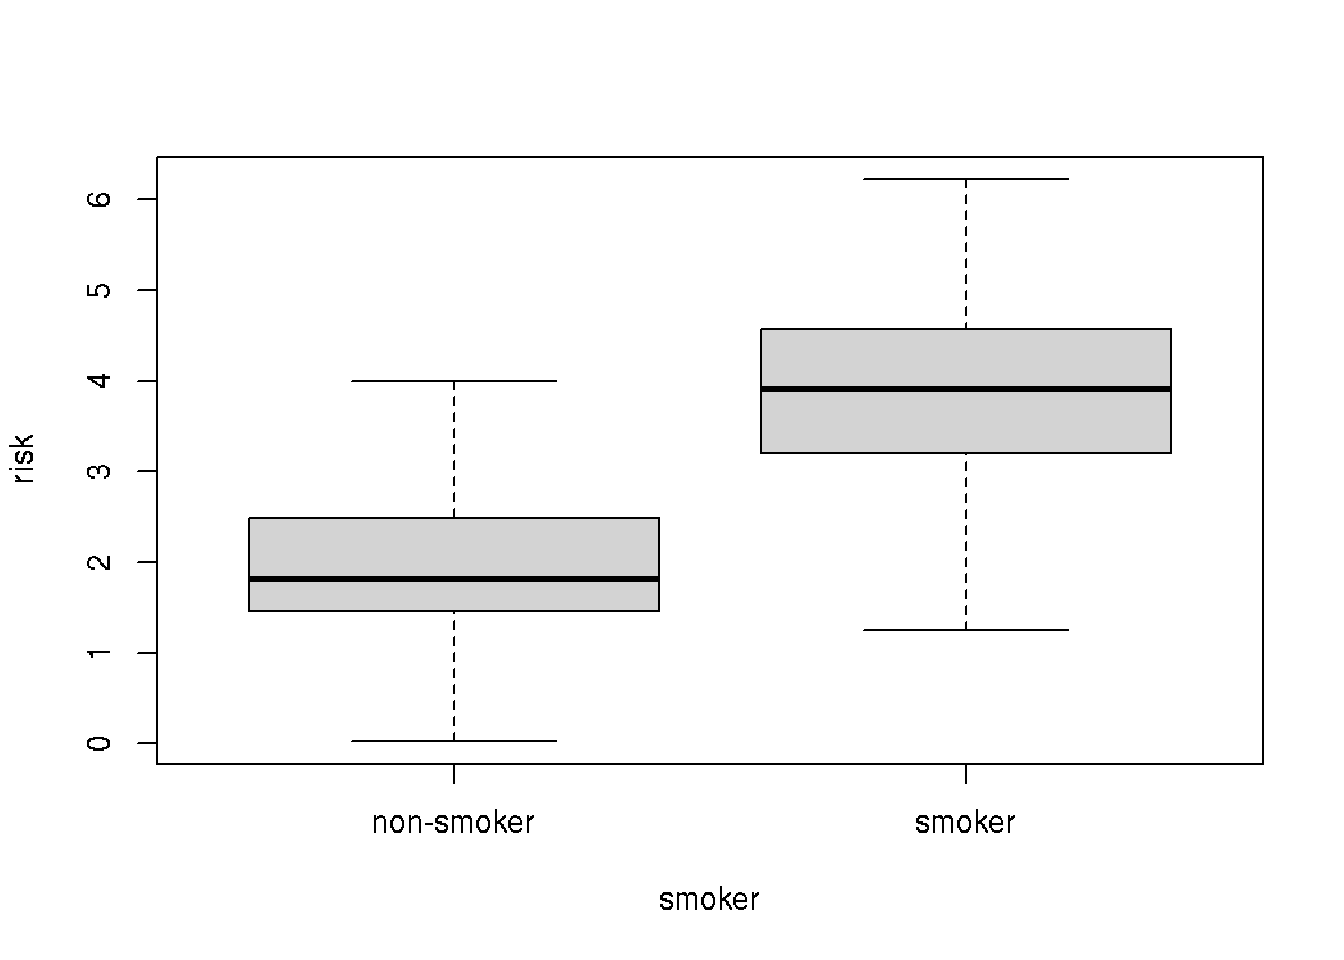
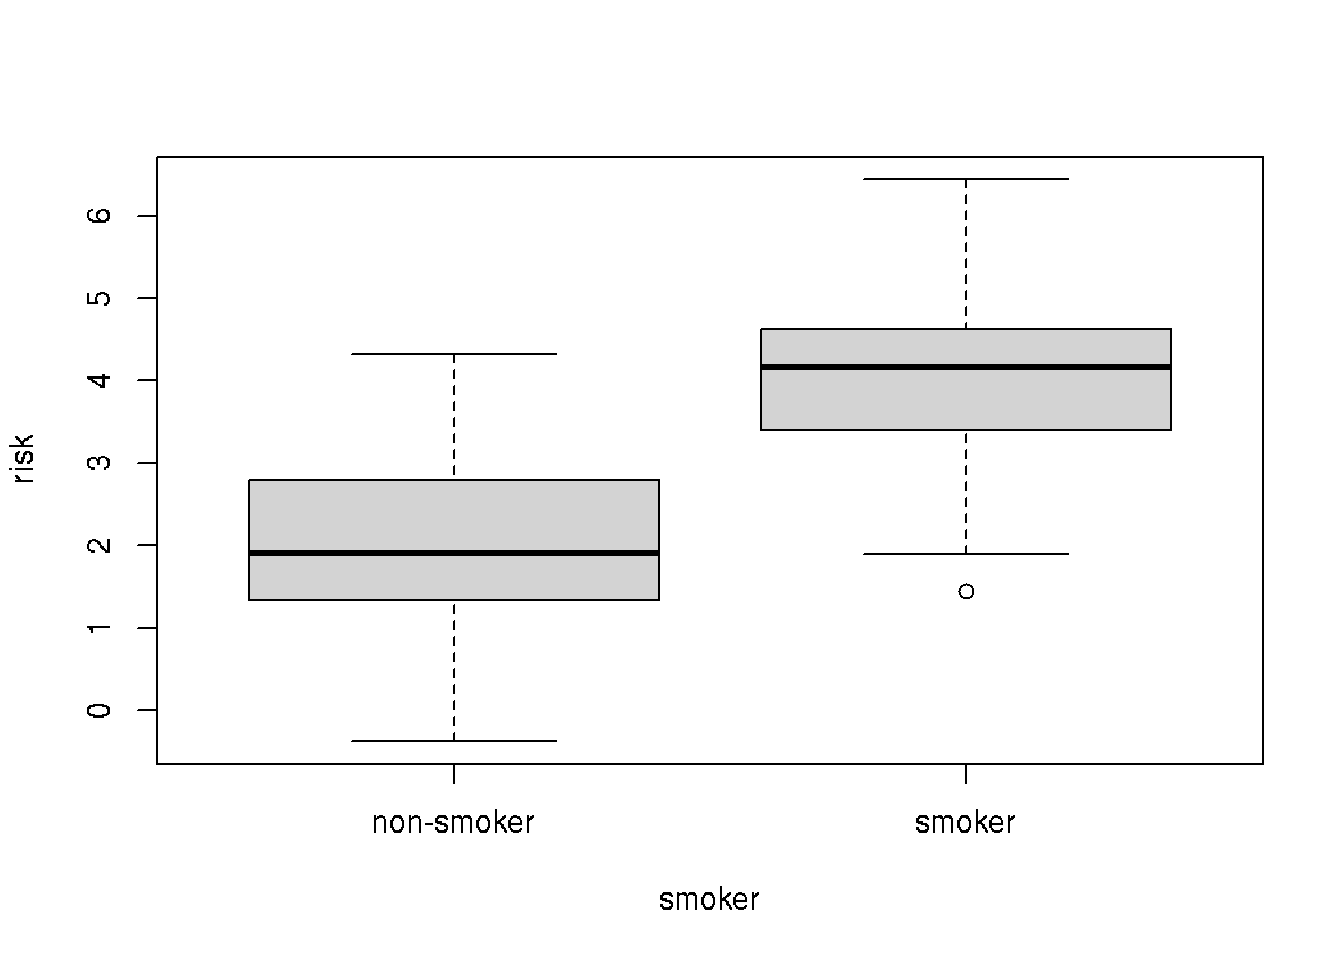
Built site for gh-pages

diff --git a/dataframes_intro.html b/dataframes_intro.html
@@ -410,7 +410,13 @@ pre > code.sourceCode > span > a:first-child::before { text-decoration: underlin
   </ul></li>
   <li><a href="#aggregating-data" id="toc-aggregating-data" class="nav-link" data-scroll-target="#aggregating-data"><span class="header-section-number">11.7</span> Aggregating data</a></li>
   <li><a href="#creating-a-data.frame-from-scratch" id="toc-creating-a-data.frame-from-scratch" class="nav-link" data-scroll-target="#creating-a-data.frame-from-scratch"><span class="header-section-number">11.8</span> Creating a data.frame from scratch</a></li>
-  <li><a href="#saving-a-data.frame" id="toc-saving-a-data.frame" class="nav-link" data-scroll-target="#saving-a-data.frame"><span class="header-section-number">11.9</span> Saving a data.frame</a></li>
+  <li><a href="#joining-merging-data" id="toc-joining-merging-data" class="nav-link" data-scroll-target="#joining-merging-data"><span class="header-section-number">11.9</span> Joining / Merging Data</a>
+  <ul class="collapse">
+  <li><a href="#join-columns" id="toc-join-columns" class="nav-link" data-scroll-target="#join-columns"><span class="header-section-number">11.9.1</span> Join Columns</a></li>
+  <li><a href="#join-rows" id="toc-join-rows" class="nav-link" data-scroll-target="#join-rows"><span class="header-section-number">11.9.2</span> Join Rows</a></li>
+  <li><a href="#joining-data-by-key" id="toc-joining-data-by-key" class="nav-link" data-scroll-target="#joining-data-by-key"><span class="header-section-number">11.9.3</span> Joining Data by Key</a></li>
+  </ul></li>
+  <li><a href="#saving-a-data.frame" id="toc-saving-a-data.frame" class="nav-link" data-scroll-target="#saving-a-data.frame"><span class="header-section-number">11.10</span> Saving a data.frame</a></li>
   </ul>
 <div class="toc-actions"><ul><li><a href="https://github.com/lshep/RPC519RBioc/edit/main/dataframes_intro.qmd" class="toc-action"><i class="bi bi-github"></i>Edit this page</a></li><li><a href="https://github.com/lshep/RPC519RBioc/issues/new" class="toc-action"><i class="bi empty"></i>Report an issue</a></li><li><a href="https://github.com/lshep/RPC519RBioc/blob/main/dataframes_intro.qmd" class="toc-action"><i class="bi empty"></i>View source</a></li></ul></div></nav>
     </div>
@@ -443,7 +449,7 @@ pre > code.sourceCode > span > a:first-child::before { text-decoration: underlin
     <div>
     <div class="quarto-title-meta-heading">Modified</div>
     <div class="quarto-title-meta-contents">
-      <p class="date-modified">May 6, 2026</p>
+      <p class="date-modified">May 13, 2026</p>
     </div>
   </div>
     
@@ -601,27 +607,27 @@ pre > code.sourceCode > span > a:first-child::before { text-decoration: underlin
 </div>
 <div class="sourceCode cell-code" id="cb17"><pre class="sourceCode r code-with-copy"><code class="sourceCode r"><span id="cb17-1"><a href="#cb17-1" aria-hidden="true" tabindex="-1"></a><span class="fu">summary</span>(ydat)</span></code><button title="Copy to Clipboard" class="code-copy-button"><i class="bi"></i></button></pre></div>
 <div class="cell-output cell-output-stdout">
-<pre><code>    symbol          systematic_name      nutrient        
- Length:198430      Length:198430      Length:198430     
- Class :character   Class :character   Class :character  
- Mode  :character   Mode  :character   Mode  :character  
-                                                         
-                                                         
-                                                         
-      rate          expression             bp           
- Min.   :0.0500   Min.   :-6.500000   Length:198430     
- 1st Qu.:0.1000   1st Qu.:-0.290000   Class :character  
- Median :0.2000   Median : 0.000000   Mode  :character  
- Mean   :0.1752   Mean   : 0.003367                     
- 3rd Qu.:0.2500   3rd Qu.: 0.290000                     
- Max.   :0.3000   Max.   : 6.640000                     
-      mf           
- Length:198430     
- Class :character  
- Mode  :character  
-                   
-                   
-                   </code></pre>
+<pre><code>       symbol        systematic_name        nutrient     
+ Length   :198430   Length   :198430   Length   :198430  
+ N.unique :  4210   N.unique :  5536   N.unique :     6  
+ N.blank  :     0   N.blank  :     0   N.blank  :     0  
+ Min.nchar:     2   Min.nchar:     5   Min.nchar:     6  
+ Max.nchar:     9   Max.nchar:     9   Max.nchar:     9  
+ NAs      : 47250                                        
+      rate          expression                bp        
+ Min.   :0.0500   Min.   :-6.500000   Length   :198430  
+ 1st Qu.:0.1000   1st Qu.:-0.290000   N.unique :   880  
+ Median :0.2000   Median : 0.000000   N.blank  :     0  
+ Mean   :0.1752   Mean   : 0.003367   Min.nchar:     7  
+ 3rd Qu.:0.2500   3rd Qu.: 0.290000   Max.nchar:    82  
+ Max.   :0.3000   Max.   : 6.640000   NAs      :  7663  
+         mf        
+ Length   :198430  
+ N.unique :  1085  
+ N.blank  :     0  
+ Min.nchar:    11  
+ Max.nchar:   125  
+ NAs      :  7663  </code></pre>
 </div>
 </div>
 <p>In RStudio, there is an additional function, <code>View()</code> (note the capital “V”) that opens the first 1000 rows (default) in the RStudio window, akin to a spreadsheet view.</p>
@@ -759,8 +765,8 @@ NA.47249 &lt;NA&gt; &lt;NA&gt;</code></pre>
 <div class="cell">
 <div class="sourceCode cell-code" id="cb44"><pre class="sourceCode r code-with-copy"><code class="sourceCode r"><span id="cb44-1"><a href="#cb44-1" aria-hidden="true" tabindex="-1"></a><span class="fu">summary</span>(ydat<span class="sc">$</span>symbol)</span></code><button title="Copy to Clipboard" class="code-copy-button"><i class="bi"></i></button></pre></div>
 <div class="cell-output cell-output-stdout">
-<pre><code>   Length     Class      Mode 
-   198430 character character </code></pre>
+<pre><code>   Length  N.unique   N.blank Min.nchar Max.nchar       NAs 
+   198430      4210         0         2         9     47250 </code></pre>
 </div>
 </div>
 <p>Using the <code>is.na()</code> function, we can make filter further to get down to values of interest.</p>
@@ -916,12 +922,12 @@ NA.47249 &lt;NA&gt; &lt;NA&gt;</code></pre>
 <span id="cb57-2"><a href="#cb57-2" aria-hidden="true" tabindex="-1"></a><span class="fu">head</span>(smoker_risk)</span></code><button title="Copy to Clipboard" class="code-copy-button"><i class="bi"></i></button></pre></div>
 <div class="cell-output cell-output-stdout">
 <pre><code>  smoker     risk
-1 smoker 3.494214
-2 smoker 3.841851
-3 smoker 3.607017
-4 smoker 4.449390
-5 smoker 3.896246
-6 smoker 5.712052</code></pre>
+1 smoker 4.206258
+2 smoker 4.418306
+3 smoker 1.898005
+4 smoker 4.126605
+5 smoker 5.891097
+6 smoker 4.543194</code></pre>
 </div>
 </div>
 <p>R also has plotting shortcuts that work with data.frames to simplify plotting</p>
@@ -936,11 +942,139 @@ NA.47249 &lt;NA&gt; &lt;NA&gt;</code></pre>
 </div>
 </div>
 </section>
-<section id="saving-a-data.frame" class="level2" data-number="11.9">
-<h2 data-number="11.9" class="anchored" data-anchor-id="saving-a-data.frame"><span class="header-section-number">11.9</span> Saving a data.frame</h2>
+<section id="joining-merging-data" class="level2" data-number="11.9">
+<h2 data-number="11.9" class="anchored" data-anchor-id="joining-merging-data"><span class="header-section-number">11.9</span> Joining / Merging Data</h2>
+<p>There are a number of ways to merge or join data. We discussed cbind and rbind in matricies which will work with data.frames provided there are equal dimension of the bind but there are a number of ways to merge data as well.</p>
+<section id="join-columns" class="level3" data-number="11.9.1">
+<h3 data-number="11.9.1" class="anchored" data-anchor-id="join-columns"><span class="header-section-number">11.9.1</span> Join Columns</h3>
+<div class="cell">
+<div class="sourceCode cell-code" id="cb60"><pre class="sourceCode r code-with-copy"><code class="sourceCode r"><span id="cb60-1"><a href="#cb60-1" aria-hidden="true" tabindex="-1"></a>deceased <span class="ot">&lt;-</span> <span class="fu">sample</span>(<span class="fu">c</span>(<span class="dv">0</span>,<span class="dv">1</span>), <span class="at">size =</span> <span class="fu">nrow</span>(smoker_risk), <span class="at">replace=</span><span class="cn">TRUE</span>)</span>
+<span id="cb60-2"><a href="#cb60-2" aria-hidden="true" tabindex="-1"></a><span class="fu">head</span>(<span class="fu">cbind</span>(smoker_risk, deceased))</span></code><button title="Copy to Clipboard" class="code-copy-button"><i class="bi"></i></button></pre></div>
+<div class="cell-output cell-output-stdout">
+<pre><code>  smoker     risk deceased
+1 smoker 4.206258        0
+2 smoker 4.418306        0
+3 smoker 1.898005        1
+4 smoker 4.126605        0
+5 smoker 5.891097        0
+6 smoker 4.543194        1</code></pre>
+</div>
+</div>
+<p>Be careful if a columns can be repeated to match length it will by default.</p>
+<div class="cell">
+<div class="sourceCode cell-code" id="cb62"><pre class="sourceCode r code-with-copy"><code class="sourceCode r"><span id="cb62-1"><a href="#cb62-1" aria-hidden="true" tabindex="-1"></a>meta_data <span class="ot">&lt;-</span> <span class="fu">data.frame</span>(<span class="at">sex=</span><span class="fu">c</span>(<span class="st">"f"</span>, <span class="st">"m"</span>, <span class="st">"m"</span>, <span class="st">"f"</span>), <span class="at">age=</span><span class="fu">c</span>(<span class="dv">40</span>,<span class="dv">60</span>,<span class="dv">20</span>,<span class="dv">80</span>))</span>
+<span id="cb62-2"><a href="#cb62-2" aria-hidden="true" tabindex="-1"></a><span class="fu">head</span>(<span class="fu">cbind</span>(smoker_risk, deceased, meta_data))</span></code><button title="Copy to Clipboard" class="code-copy-button"><i class="bi"></i></button></pre></div>
+<div class="cell-output cell-output-stdout">
+<pre><code>  smoker     risk deceased sex age
+1 smoker 4.206258        0   f  40
+2 smoker 4.418306        0   m  60
+3 smoker 1.898005        1   m  20
+4 smoker 4.126605        0   f  80
+5 smoker 5.891097        0   f  40
+6 smoker 4.543194        1   m  60</code></pre>
+</div>
+</div>
+</section>
+<section id="join-rows" class="level3" data-number="11.9.2">
+<h3 data-number="11.9.2" class="anchored" data-anchor-id="join-rows"><span class="header-section-number">11.9.2</span> Join Rows</h3>
+<div class="cell">
+<div class="sourceCode cell-code" id="cb64"><pre class="sourceCode r code-with-copy"><code class="sourceCode r"><span id="cb64-1"><a href="#cb64-1" aria-hidden="true" tabindex="-1"></a><span class="fu">tail</span>(<span class="fu">rbind</span>(smoker_risk, smoker_risk[<span class="dv">1</span><span class="sc">:</span><span class="dv">4</span>,]))</span></code><button title="Copy to Clipboard" class="code-copy-button"><i class="bi"></i></button></pre></div>
+<div class="cell-output cell-output-stdout">
+<pre><code>        smoker      risk
+99  non-smoker 3.9722497
+100 non-smoker 0.9386303
+101     smoker 4.2062580
+102     smoker 4.4183059
+103     smoker 1.8980054
+104     smoker 4.1266051</code></pre>
+</div>
+</div>
+<p>There is also a dplyr method to join rows that can handle NA automatically</p>
+<div class="cell">
+<div class="sourceCode cell-code" id="cb66"><pre class="sourceCode r code-with-copy"><code class="sourceCode r"><span id="cb66-1"><a href="#cb66-1" aria-hidden="true" tabindex="-1"></a><span class="fu">library</span>(dplyr)</span>
+<span id="cb66-2"><a href="#cb66-2" aria-hidden="true" tabindex="-1"></a>second_smoker_set <span class="ot">=</span> <span class="fu">data.frame</span>(<span class="at">smoker=</span><span class="fu">c</span>(<span class="st">"smoker"</span>, <span class="st">"non-smoker"</span>, <span class="st">"smoker"</span>),</span>
+<span id="cb66-3"><a href="#cb66-3" aria-hidden="true" tabindex="-1"></a>                               <span class="at">deceased =</span> <span class="fu">c</span>(<span class="dv">0</span>,<span class="dv">0</span>,<span class="dv">1</span>))</span>
+<span id="cb66-4"><a href="#cb66-4" aria-hidden="true" tabindex="-1"></a><span class="fu">tail</span>(<span class="fu">bind_rows</span>(smoker_risk, second_smoker_set))</span></code><button title="Copy to Clipboard" class="code-copy-button"><i class="bi"></i></button></pre></div>
+<div class="cell-output cell-output-stdout">
+<pre><code>        smoker      risk deceased
+98  non-smoker 1.7904640       NA
+99  non-smoker 3.9722497       NA
+100 non-smoker 0.9386303       NA
+101     smoker        NA        0
+102 non-smoker        NA        0
+103     smoker        NA        1</code></pre>
+</div>
+</div>
+<p>If you tried this with rbind it will fail</p>
+<div class="cell">
+<div class="sourceCode cell-code" id="cb68"><pre class="sourceCode r code-with-copy"><code class="sourceCode r"><span id="cb68-1"><a href="#cb68-1" aria-hidden="true" tabindex="-1"></a><span class="fu">rbind</span>(smoker_risk, second_smoker_set)</span></code><button title="Copy to Clipboard" class="code-copy-button"><i class="bi"></i></button></pre></div>
+<div class="cell-output cell-output-error">
+<pre><code>Error in `match.names()`:
+! names do not match previous names</code></pre>
+</div>
+</div>
+</section>
+<section id="joining-data-by-key" class="level3" data-number="11.9.3">
+<h3 data-number="11.9.3" class="anchored" data-anchor-id="joining-data-by-key"><span class="header-section-number">11.9.3</span> Joining Data by Key</h3>
+<p>There are multiple options to merge by id (database like) depending on desired result.</p>
+<ol type="1">
+<li>merge</li>
+<li>left_join</li>
+<li>right_join</li>
+<li>inner_join</li>
+<li>full_join</li>
+</ol>
+<p>The base R <code>merge()</code> by default will only keep matching elements</p>
+<div class="cell">
+<div class="sourceCode cell-code" id="cb70"><pre class="sourceCode r code-with-copy"><code class="sourceCode r"><span id="cb70-1"><a href="#cb70-1" aria-hidden="true" tabindex="-1"></a>df1 <span class="ot">&lt;-</span> <span class="fu">data.frame</span>(<span class="at">id=</span><span class="dv">1</span><span class="sc">:</span><span class="dv">4</span>, <span class="at">ages=</span><span class="fu">c</span>(<span class="dv">12</span>,<span class="dv">50</span>,<span class="dv">40</span>,<span class="dv">80</span>), <span class="at">sex =</span> <span class="fu">c</span>(<span class="st">"F"</span>, <span class="st">"M"</span>, <span class="cn">NA</span>, <span class="st">"F"</span>))</span>
+<span id="cb70-2"><a href="#cb70-2" aria-hidden="true" tabindex="-1"></a>df2 <span class="ot">&lt;-</span> <span class="fu">data.frame</span>(<span class="at">id =</span> <span class="fu">c</span>(<span class="dv">2</span>,<span class="dv">4</span>), <span class="at">results =</span> <span class="fu">c</span>(<span class="dv">0</span>,<span class="dv">1</span>))</span>
+<span id="cb70-3"><a href="#cb70-3" aria-hidden="true" tabindex="-1"></a></span>
+<span id="cb70-4"><a href="#cb70-4" aria-hidden="true" tabindex="-1"></a><span class="fu">merge</span>(df1, df2, <span class="at">by=</span><span class="st">"id"</span>)</span></code><button title="Copy to Clipboard" class="code-copy-button"><i class="bi"></i></button></pre></div>
+<div class="cell-output cell-output-stdout">
+<pre><code>  id ages sex results
+1  2   50   M       0
+2  4   80   F       1</code></pre>
+</div>
+</div>
+<p>What argument can we use to do a full merge?</p>
+<p>The <code>*_join()</code> methods are from dplyr.</p>
+<ul>
+<li><code>left_join()</code> keeps all rows from df1</li>
+<li><code>right_join()</code> keeps all rows from df2</li>
+<li><code>inner_join()</code> keeps only matching</li>
+<li><code>full_join()</code> keeps everything</li>
+</ul>
+<div class="cell">
+<div class="sourceCode cell-code" id="cb72"><pre class="sourceCode r code-with-copy"><code class="sourceCode r"><span id="cb72-1"><a href="#cb72-1" aria-hidden="true" tabindex="-1"></a><span class="co"># only matches</span></span>
+<span id="cb72-2"><a href="#cb72-2" aria-hidden="true" tabindex="-1"></a><span class="fu">inner_join</span>(df1, df2)</span></code><button title="Copy to Clipboard" class="code-copy-button"><i class="bi"></i></button></pre></div>
+<div class="cell-output cell-output-stderr">
+<pre><code>Joining with `by = join_by(id)`</code></pre>
+</div>
+<div class="cell-output cell-output-stdout">
+<pre><code>  id ages sex results
+1  2   50   M       0
+2  4   80   F       1</code></pre>
+</div>
+<div class="sourceCode cell-code" id="cb75"><pre class="sourceCode r code-with-copy"><code class="sourceCode r"><span id="cb75-1"><a href="#cb75-1" aria-hidden="true" tabindex="-1"></a><span class="co"># keep everything</span></span>
+<span id="cb75-2"><a href="#cb75-2" aria-hidden="true" tabindex="-1"></a><span class="fu">full_join</span>(df1, df2)</span></code><button title="Copy to Clipboard" class="code-copy-button"><i class="bi"></i></button></pre></div>
+<div class="cell-output cell-output-stderr">
+<pre><code>Joining with `by = join_by(id)`</code></pre>
+</div>
+<div class="cell-output cell-output-stdout">
+<pre><code>  id ages  sex results
+1  1   12    F      NA
+2  2   50    M       0
+3  3   40 &lt;NA&gt;      NA
+4  4   80    F       1</code></pre>
+</div>
+</div>
+</section>
+</section>
+<section id="saving-a-data.frame" class="level2" data-number="11.10">
+<h2 data-number="11.10" class="anchored" data-anchor-id="saving-a-data.frame"><span class="header-section-number">11.10</span> Saving a data.frame</h2>
 <p>Once we have a data.frame of interest, we may want to save it. The most portable way to save a data.frame is to use one of the <code>write</code> functions. In this case, let’s save the data as a <code>.csv</code> file.</p>
 <div class="cell">
-<div class="sourceCode cell-code" id="cb60"><pre class="sourceCode r code-with-copy"><code class="sourceCode r"><span id="cb60-1"><a href="#cb60-1" aria-hidden="true" tabindex="-1"></a><span class="fu">write.csv</span>(smoker_risk, <span class="st">"smoker_risk.csv"</span>)</span></code><button title="Copy to Clipboard" class="code-copy-button"><i class="bi"></i></button></pre></div>
+<div class="sourceCode cell-code" id="cb78"><pre class="sourceCode r code-with-copy"><code class="sourceCode r"><span id="cb78-1"><a href="#cb78-1" aria-hidden="true" tabindex="-1"></a><span class="fu">write.csv</span>(smoker_risk, <span class="st">"smoker_risk.csv"</span>)</span></code><button title="Copy to Clipboard" class="code-copy-button"><i class="bi"></i></button></pre></div>
 </div>
 
 